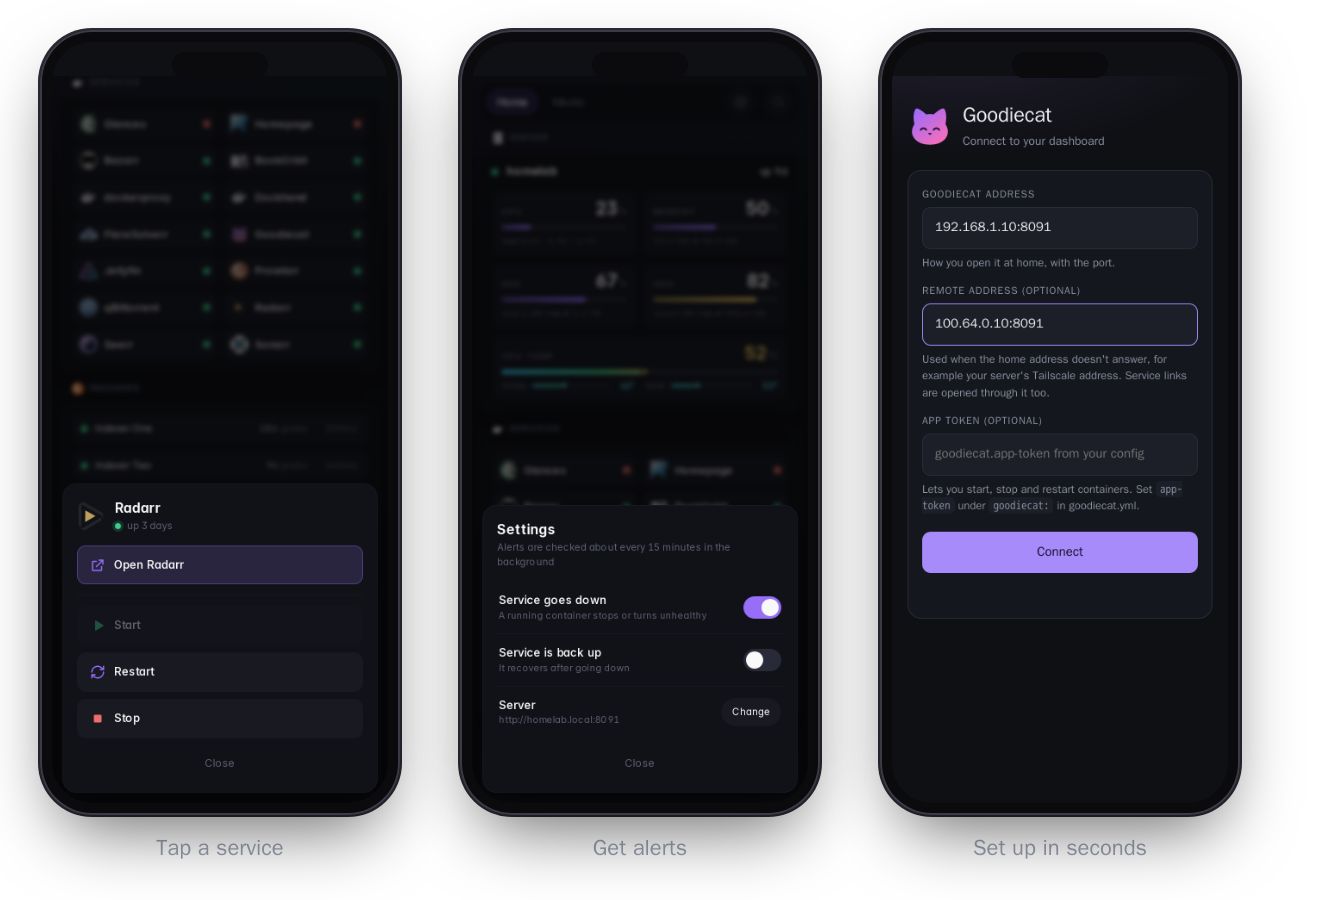
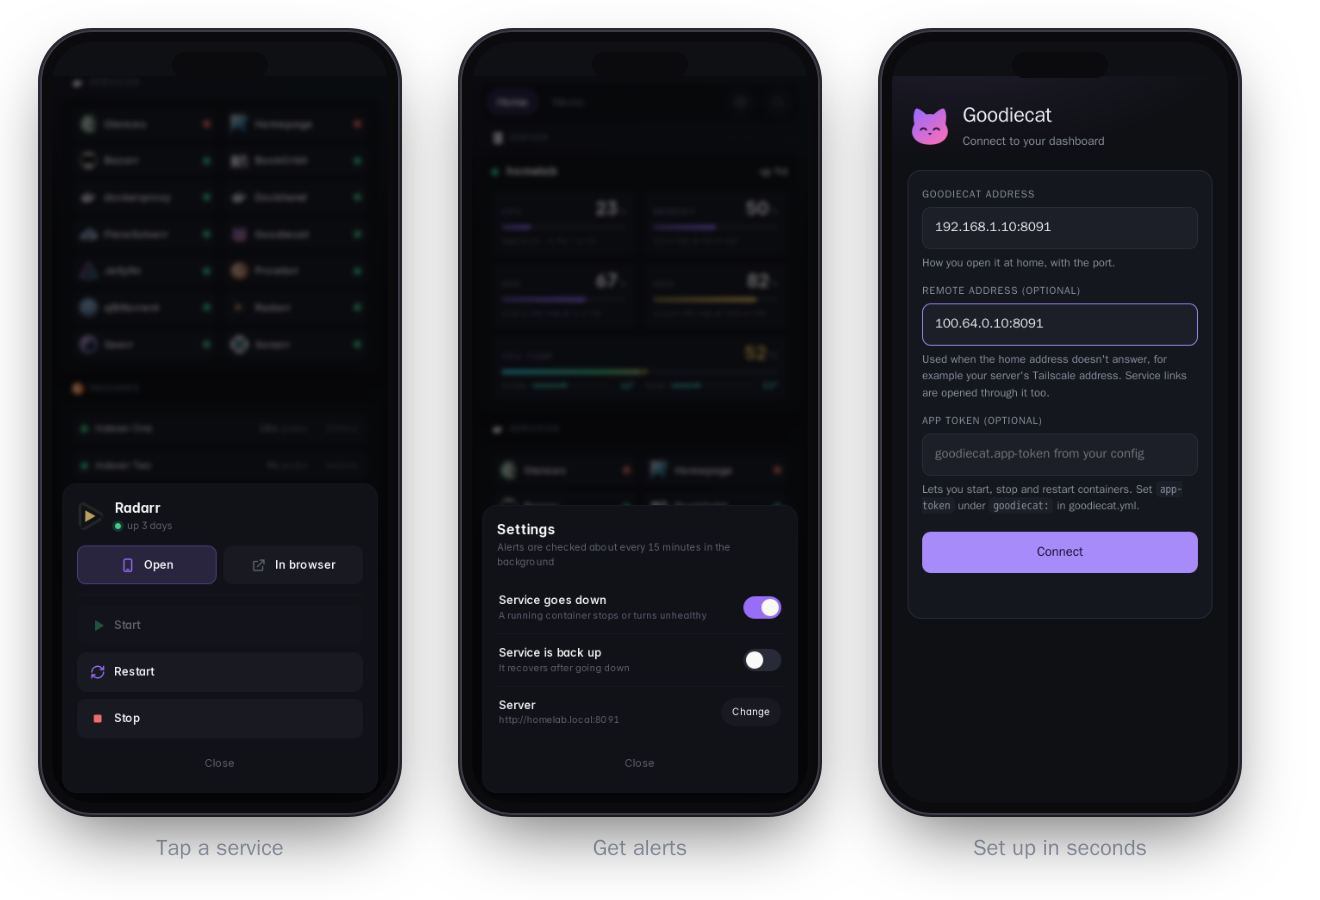
App: Open in the app or in the browser
The service panel gets both: Open keeps the page inside the app (its links
stay there until you go back), In browser hands it to the phone's browser.
Both go through whichever address works. v1.2.

Changed region(s): [[0.1553, 0.5911, 0.2795, 0.6533], [0.0621, 0.6222, 0.1242, 0.6533]]

diff --git a/android/app/src/main/assets/dashboard.js b/android/app/src/main/assets/dashboard.js
@@ -39,6 +39,9 @@
             '.gc-act-open{--gc-act-color:var(--color-primary);border-color:color-mix(in srgb,var(--color-primary) 45%,var(--gc-line));',
             'background:color-mix(in srgb,var(--color-primary) 14%,var(--gc-surface))}',
             '.gc-act-sep{height:1px;margin:4px 0;background:var(--gc-line)}',
+            '.gc-open-row{display:flex;gap:8px}',
+            '.gc-open-row .gc-act{justify-content:center}',
+            '.gc-act-browser{--gc-act-color:var(--color-text-subdue)}',
             '.gc-act-start{--gc-act-color:var(--color-positive)}',
             '.gc-act-restart{--gc-act-color:var(--color-primary)}',
             '.gc-act-stop{--gc-act-color:var(--color-negative)}',
@@ -78,6 +81,7 @@
         '<path stroke-linecap="round" stroke-linejoin="round" d="M15 12a3 3 0 1 1-6 0 3 3 0 0 1 6 0Z"/></svg>';
 
     var ICONS = {
+        app: '<svg viewBox="0 0 24 24" fill="none" stroke="currentColor" stroke-width="2" stroke-linecap="round" stroke-linejoin="round"><rect x="6" y="2.5" width="12" height="19" rx="2.5"/><path d="M10.5 18.5h3"/></svg>',
         open: '<svg viewBox="0 0 24 24" fill="none" stroke="currentColor" stroke-width="2" stroke-linecap="round" stroke-linejoin="round"><path d="M14 4h6v6"/><path d="M20 4 10 14"/><path d="M18 14v5a1 1 0 0 1-1 1H5a1 1 0 0 1-1-1V7a1 1 0 0 1 1-1h5"/></svg>',
         start: '<svg viewBox="0 0 24 24" fill="currentColor"><path d="M8 5.14v13.72a1 1 0 0 0 1.5.86l11-6.86a1 1 0 0 0 0-1.72l-11-6.86A1 1 0 0 0 8 5.14Z"/></svg>',
         restart: '<svg viewBox="0 0 24 24" fill="none" stroke="currentColor" stroke-width="2" stroke-linecap="round" stroke-linejoin="round"><path d="M3 12a9 9 0 0 1 15.3-6.4L21 8"/><path d="M21 3v5h-5"/><path d="M21 12a9 9 0 0 1-15.3 6.4L3 16"/><path d="M3 21v-5h5"/></svg>',
@@ -209,8 +213,10 @@
             esc(info.status || info.state) + '</div></div></div>' +
             '<div class="gc-sheet-actions">' +
             (info.url
-                ? '<button class="gc-act gc-act-open" data-action="open">' + ICONS.open + '<span>Open ' + esc(info.name) +
-                  ' in browser</span></button><div class="gc-act-sep"></div>'
+                ? '<div class="gc-open-row">' +
+                  '<button class="gc-act gc-act-open" data-action="open">' + ICONS.app + '<span>Open</span></button>' +
+                  '<button class="gc-act gc-act-browser" data-action="browser">' + ICONS.open + '<span>In browser</span></button>' +
+                  '</div><div class="gc-act-sep"></div>'
                 : '') +
             button('start', 'Start', running || !canControl) +
             button('restart', 'Restart', !running || !canControl) +
@@ -237,9 +243,9 @@
         el.querySelectorAll('.gc-act').forEach(function (b) {
             b.addEventListener('click', function () {
                 var action = b.getAttribute('data-action');
-                if (action === 'open') {
+                if (action === 'open' || action === 'browser') {
                     closeSheet(true);
-                    location.href = info.url;
+                    GoodiecatApp.openService(info.url, action === 'open');
                     return;
                 }
                 // Stop asks for a second tap instead of another dialog

diff --git a/android/app/src/main/java/app/goodiecat/MainActivity.java b/android/app/src/main/java/app/goodiecat/MainActivity.java
@@ -47,6 +47,9 @@ public class MainActivity extends Activity {
     // the bridge only acts for the dashboard and the setup page, never for a
     // service's own page opened inside the app
     volatile boolean trustedPage;
+    // a service page was opened with "Open" (in the app), so its own links
+    // stay in the app too until we're back on the dashboard
+    boolean serviceInApp;
 
     @Override
     protected void onCreate(Bundle state) {
@@ -63,17 +66,16 @@ public class MainActivity extends Activity {
                 Uri url = req.getUrl();
                 if (isDashboard(url.toString())) return false;
                 if (server.ownsHost(url.getHost())) {
-                    // service pages (qBittorrent, Radarr, ...) open in the phone's
-                    // browser, which handles their logins and downloads properly.
-                    // Dashboard links usually use the home address, so swap in
-                    // whichever one works right now (same machine and ports, e.g.
-                    // over Tailscale)
-                    String want = Server.host(base);
-                    if (!want.isEmpty() && !want.equalsIgnoreCase(url.getHost())) {
-                        String port = url.getPort() > 0 ? ":" + url.getPort() : "";
-                        url = url.buildUpon().encodedAuthority(want + port).build();
+                    Uri reachable = viaWorkingAddress(url);
+                    if (serviceInApp) {
+                        if (reachable.equals(url)) return false;
+                        view.loadUrl(reachable.toString());
+                    } else {
+                        openInBrowser(reachable);
                     }
+                    return true;
                 }
+                // everything else (GitHub, IMDb, ...) opens in the browser
                 openInBrowser(url);
                 return true;
             }
@@ -81,6 +83,10 @@ public class MainActivity extends Activity {
             @Override
             public void doUpdateVisitedHistory(WebView view, String url, boolean isReload) {
                 trustedPage = isDashboard(url) || url.startsWith(SETUP_PAGE);
+                if (isDashboard(url)) serviceInApp = false;
+                // pull-to-refresh fights the inner scrolling of the services' own
+                // pages, so keep it to the dashboard, setup and error pages
+                swipe.setEnabled(failed || trustedPage);
             }
 
             @Override
@@ -179,6 +185,21 @@ public class MainActivity extends Activity {
             runOnUiThread(() -> controlContainer(name, image, action));
         }
 
+        // the service panel's "Open" (in the app) and "Open in browser"
+        @JavascriptInterface
+        public void openService(String url, boolean inApp) {
+            if (!trustedPage) return;
+            runOnUiThread(() -> {
+                Uri target = viaWorkingAddress(Uri.parse(url));
+                if (inApp) {
+                    serviceInApp = true;
+                    web.loadUrl(target.toString());
+                } else {
+                    openInBrowser(target);
+                }
+            });
+        }
+
         @JavascriptInterface
         public void sheetOpen(boolean open) {
             sheetOpen = open;
@@ -233,6 +254,15 @@ public class MainActivity extends Activity {
                 });
             }).start();
         }
+    }
+
+    // Dashboard links usually use the home address; swap in whichever one works
+    // right now (same machine and ports, e.g. over Tailscale)
+    Uri viaWorkingAddress(Uri url) {
+        String want = Server.host(base);
+        if (!server.ownsHost(url.getHost()) || want.isEmpty() || want.equalsIgnoreCase(url.getHost())) return url;
+        String port = url.getPort() > 0 ? ":" + url.getPort() : "";
+        return url.buildUpon().encodedAuthority(want + port).build();
     }
 
     void openInBrowser(Uri url) {

diff --git a/docs/goodiecat.md b/docs/goodiecat.md
@@ -61,7 +61,7 @@ The read-only endpoints follow the dashboard's own login if you've set one up, o
 Get **Goodiecat.apk** from the [latest release](https://github.com/Goodborn/goodiecat/releases/latest). Android 8 or newer.
 
 * **Setup:** enter your dashboard's address (for example `192.168.1.10:8080`). You can add a remote address too, such as the server's Tailscale address; the app uses it whenever home doesn't answer. You can also add the app token.
-* **Tap a service** to open its page in your phone's browser, or to start, stop or restart it.
+* **Tap a service** to open its page in the app or in your phone's browser (best for logins), or to start, stop or restart it.
 * **Alerts** when a running container stops or turns unhealthy, optionally also when it's back up. You can switch them on and off from the gear icon next to search. The app checks about every 15 minutes in the background, using Android's battery-friendly job scheduler. With both alerts off, nothing runs at all.
 * **Service links work away from home too:** links to your server's home address are opened through the remote address, as long as it's the same machine on the same ports (like Tailscale). If your VPN app only tunnels chosen apps, include your browser too.
 
